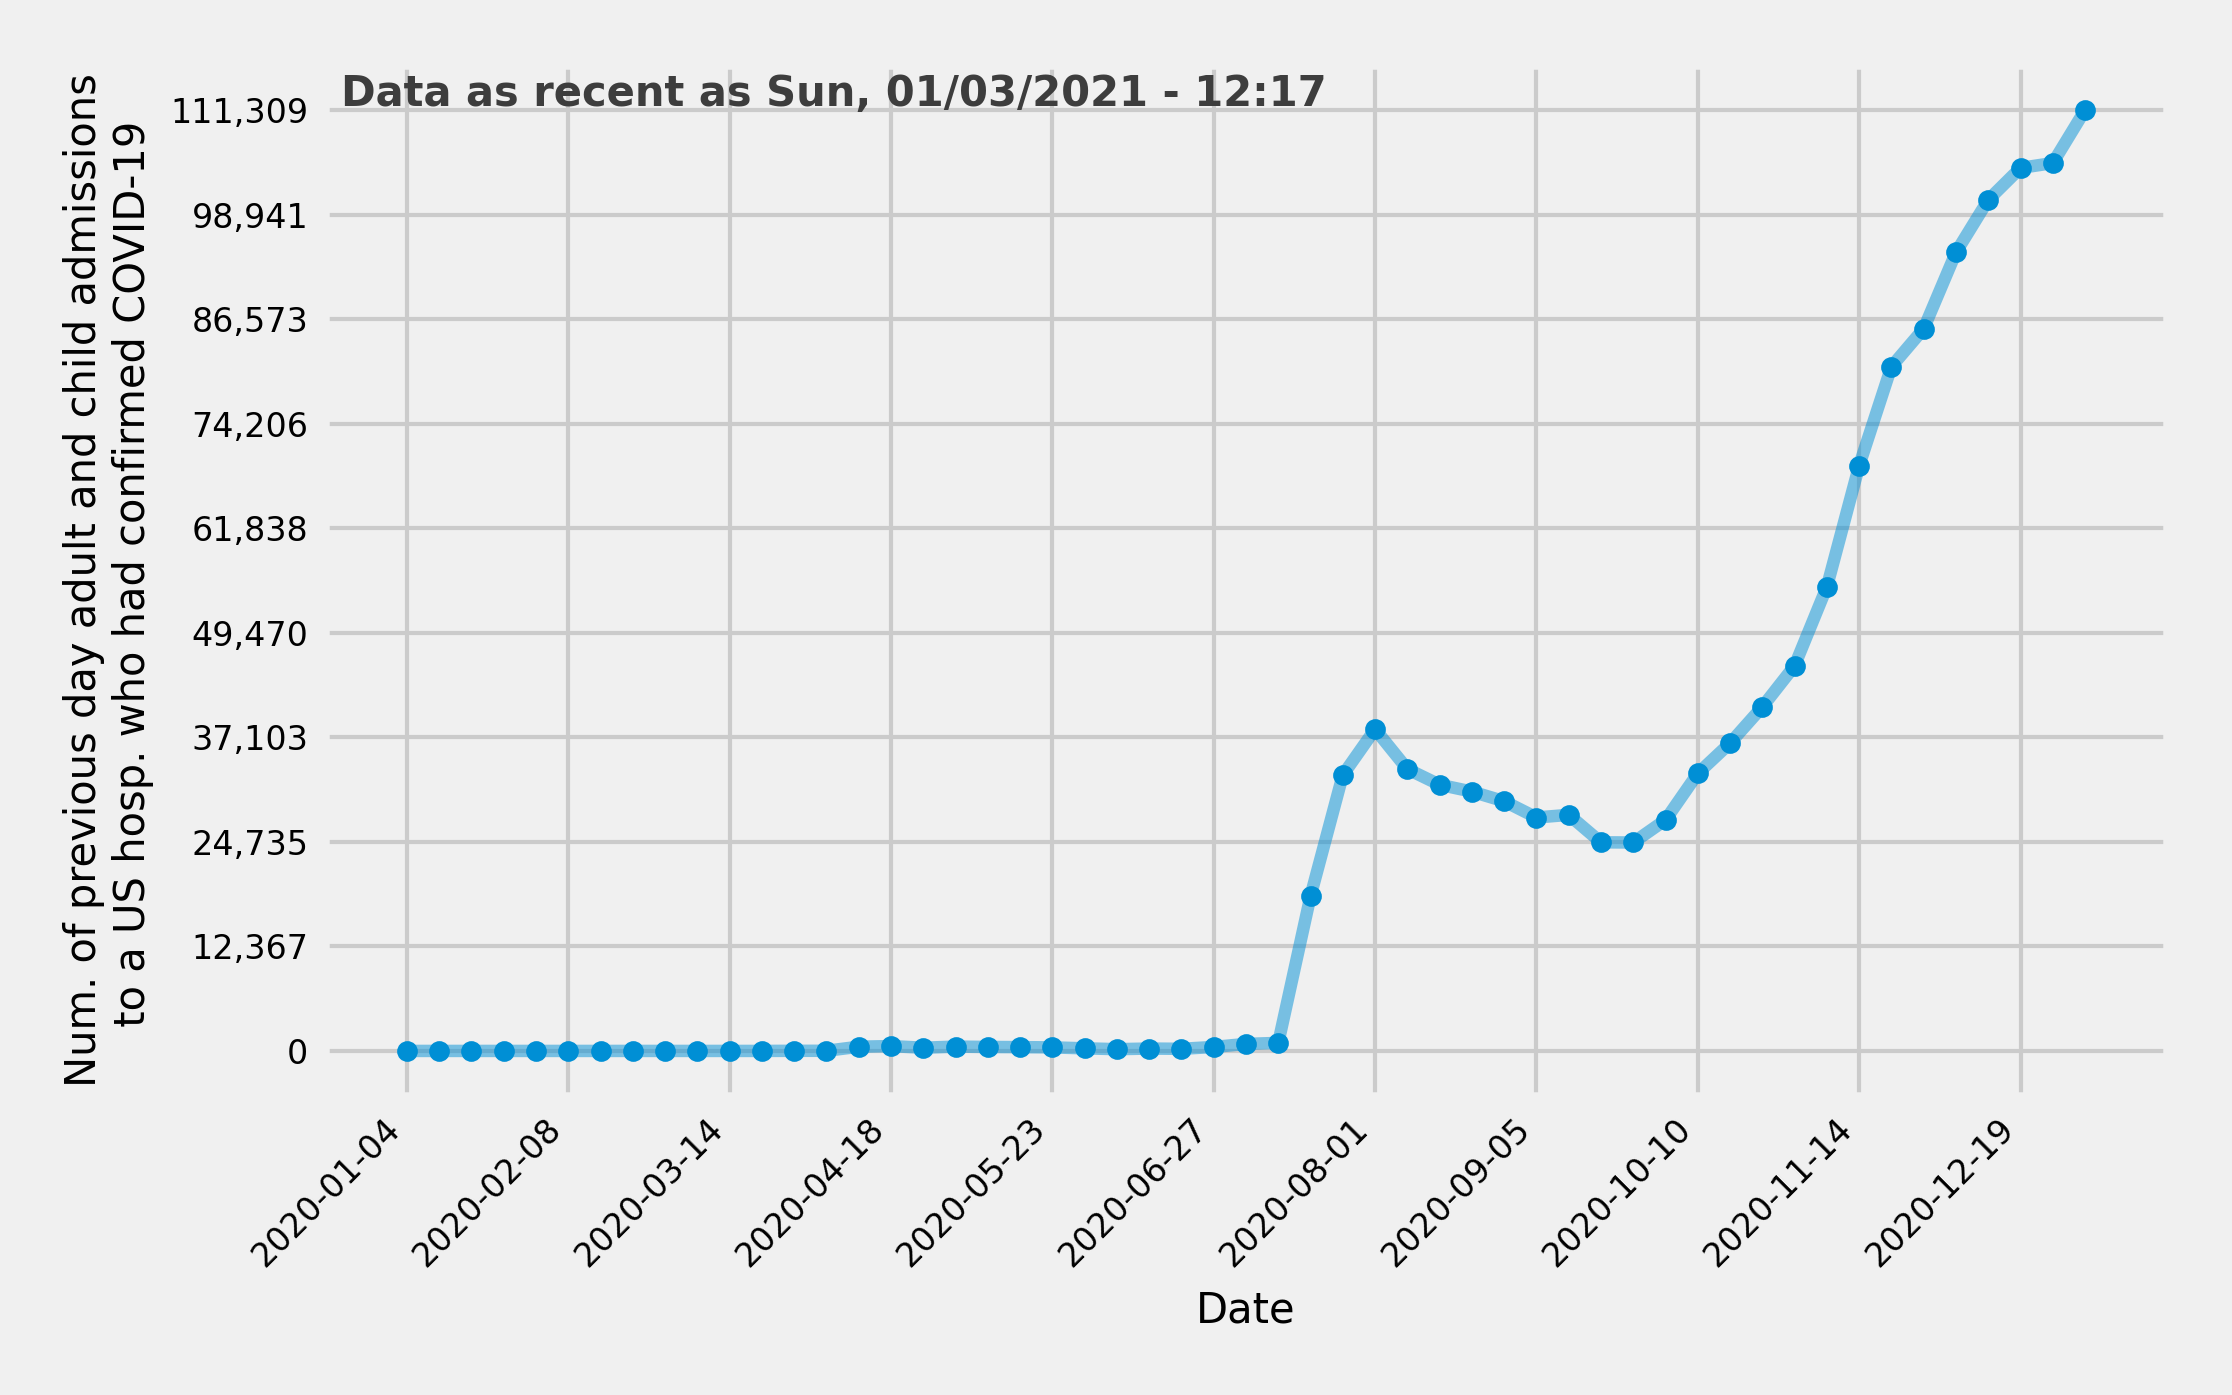
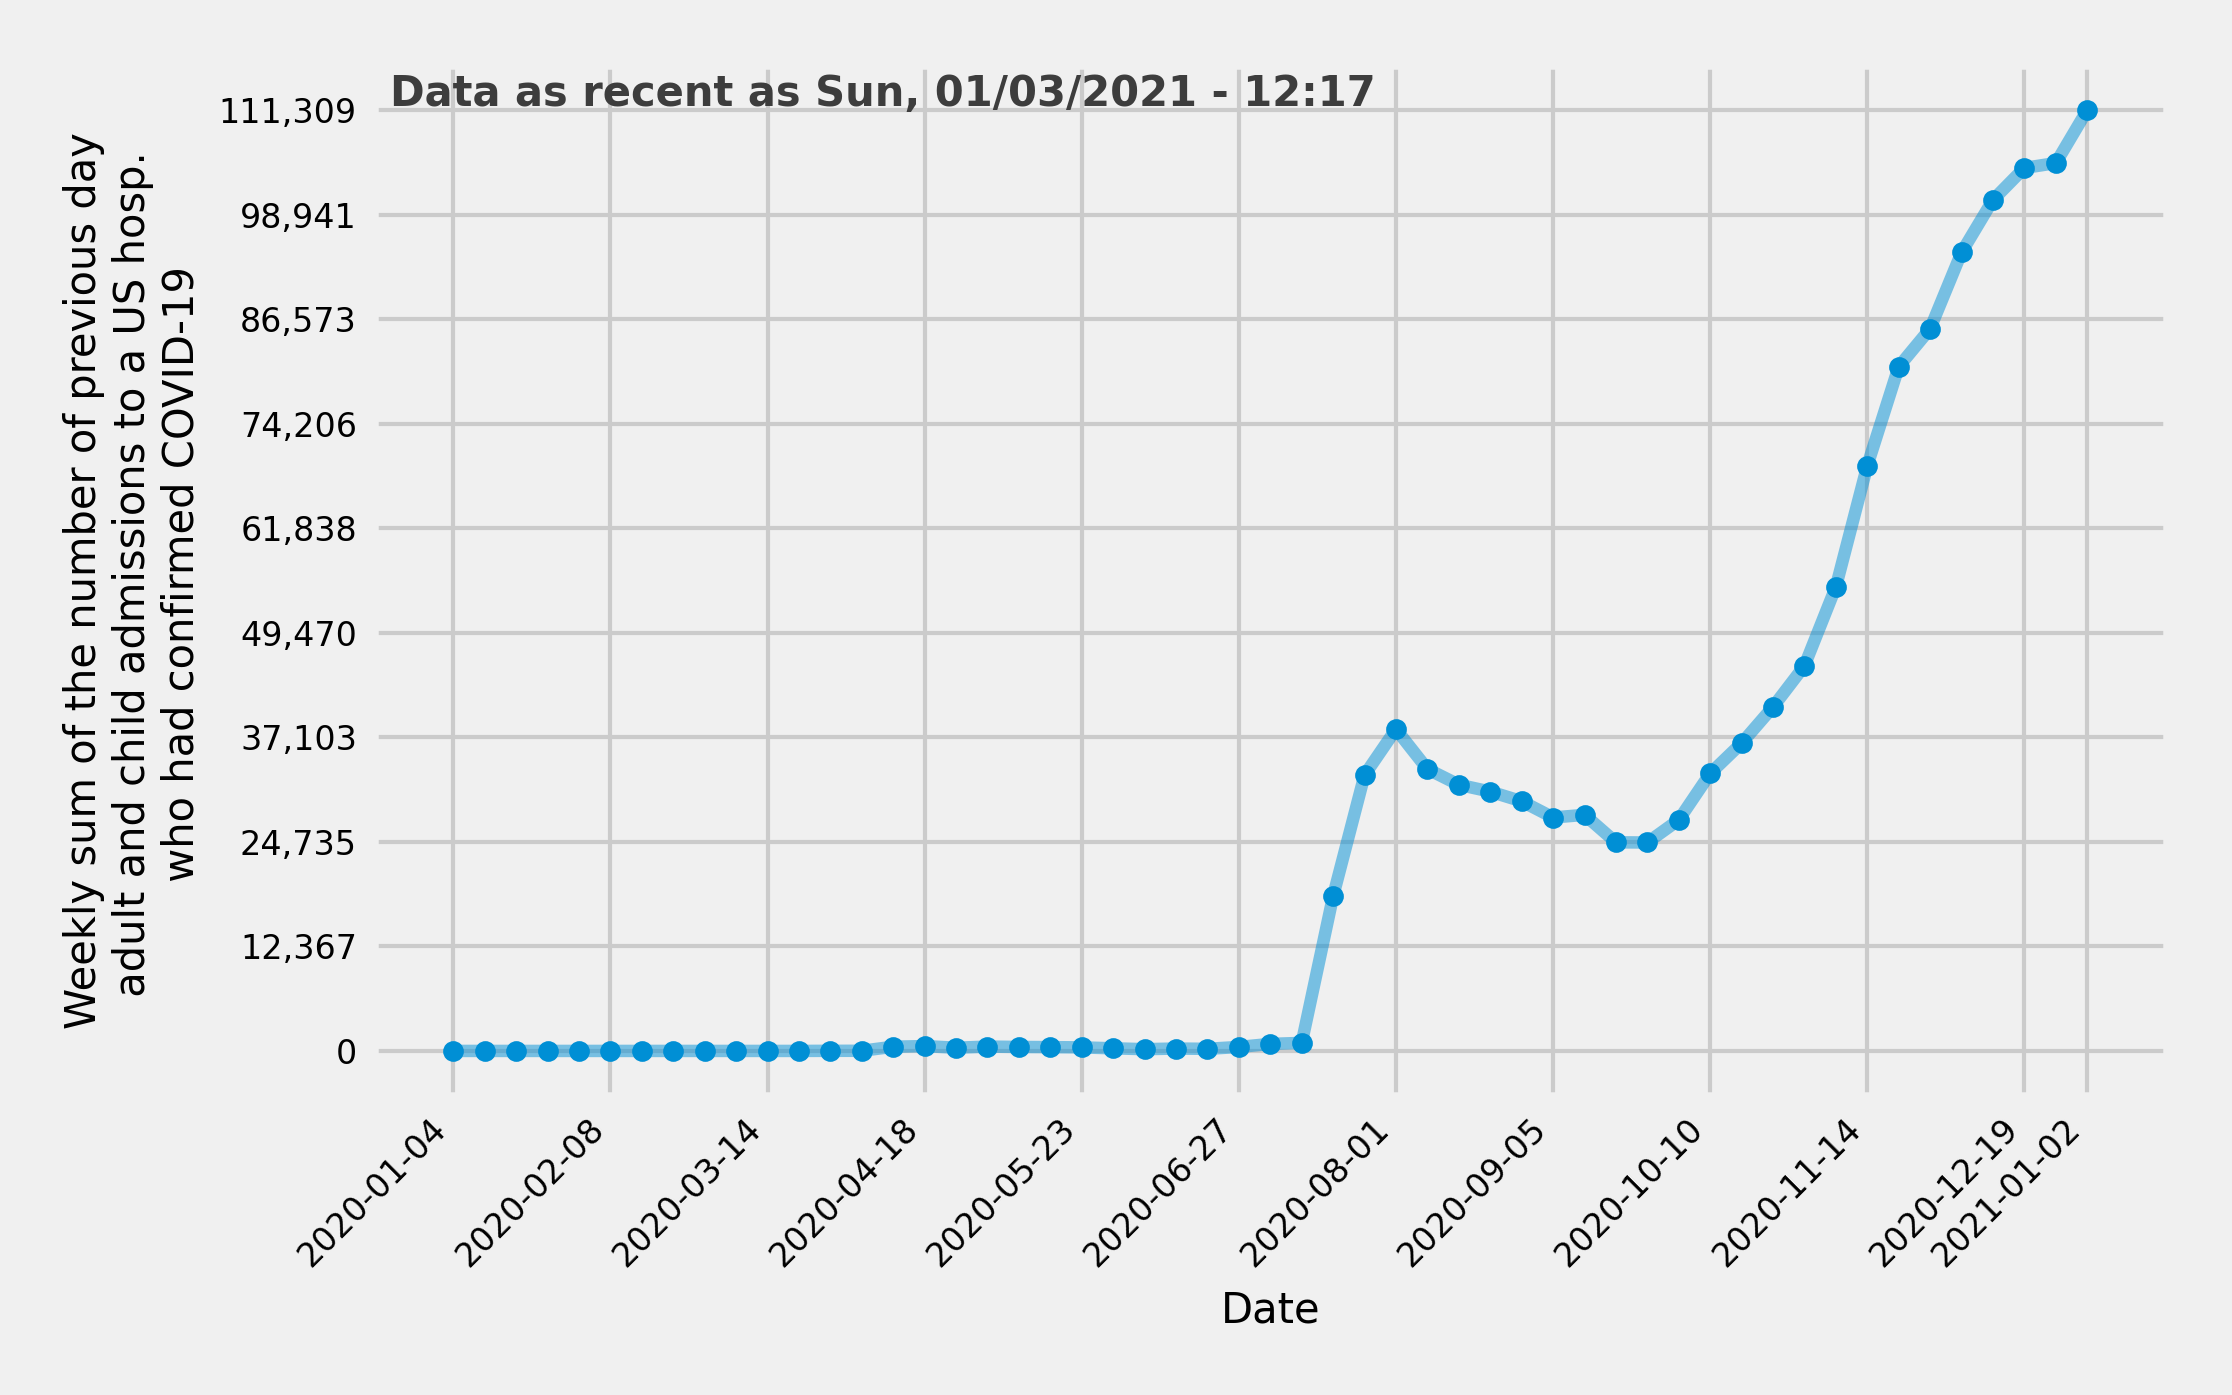
updated yaxis label

diff --git a/data/DHShospData/pullAndProcessDHSHospData.py b/data/DHShospData/pullAndProcessDHSHospData.py
@@ -8,6 +8,9 @@ import matplotlib.pyplot as plt
 import seaborn as sns
 from epiweeks import Week
 
+sys.path.append('../')
+from helperFuncs.timeAndDates import buildDictionaryFromEW2EndDate
+
 def mm2inch(x):
     return x/25.4
 
@@ -83,7 +86,8 @@ def computeYticks(ys):
     ys = ys[~np.isnan(ys)]
     miny,maxy = min(ys),max(ys)
     return [int(y) for y in np.linspace( miny,maxy,10)]
-    
+
+       
 if __name__ == "__main__":
 
     hospData = dhsHosp()
@@ -101,26 +105,15 @@ if __name__ == "__main__":
     ax.scatter( MWs, numNewHospInUS,s=20 )
     ax.plot( MWs, numNewHospInUS, lw=3.,alpha=0.50 )
 
-
-    fromEW2Date = {}
-    for ew in EWs:
-        ew = str(int(ew))
-
-        yr,week = int(ew[:4]), int(ew[4:])
-
-        wk = Week(yr,week)
-        endDate = wk.enddate()
-        
-        fromEW2Date[int(ew)] = "{:04d}-{:02d}-{:02d}".format( endDate.year,endDate.month,endDate.day)
-    
-    ax.set_xticks(MWs[::5])
-    ax.set_xticklabels( [ "{:s}".format(fromEW2Date[int(x)]) for x in EWs[::5]], rotation=45, ha="right" )
-    
+    fromEW2Date = buildDictionaryFromEW2EndDate(EWs)
+   
+    ax.set_xticks(list(MWs[::5])+[MWs.iloc[-1]])
+    ax.set_xticklabels( [ "{:s}".format(fromEW2Date[int(x)]) for x in list(EWs[::5]) + [EWs.iloc[-1]] ], rotation=45, ha="right" )
     
     ax.tick_params(which="both",labelsize=8)
 
     ax.set_xlabel("Date", fontsize=10)
-    ax.set_ylabel("Num. of previous day adult and child admissions\n to a US hosp. who had confirmed COVID-19", fontsize=10)
+    ax.set_ylabel("Weekly sum of the number of previous day\n adult and child admissions to a US hosp.\n who had confirmed COVID-19", fontsize=10)
 
     ax.text(0.01, 0.99, "Data as recent as {:s}".format( hospData.metaDataDict['revision_timestamp'] )
             ,weight="bold",fontsize=10,ha="left",va="top", color="#3d3d3d",transform=ax.transAxes)
